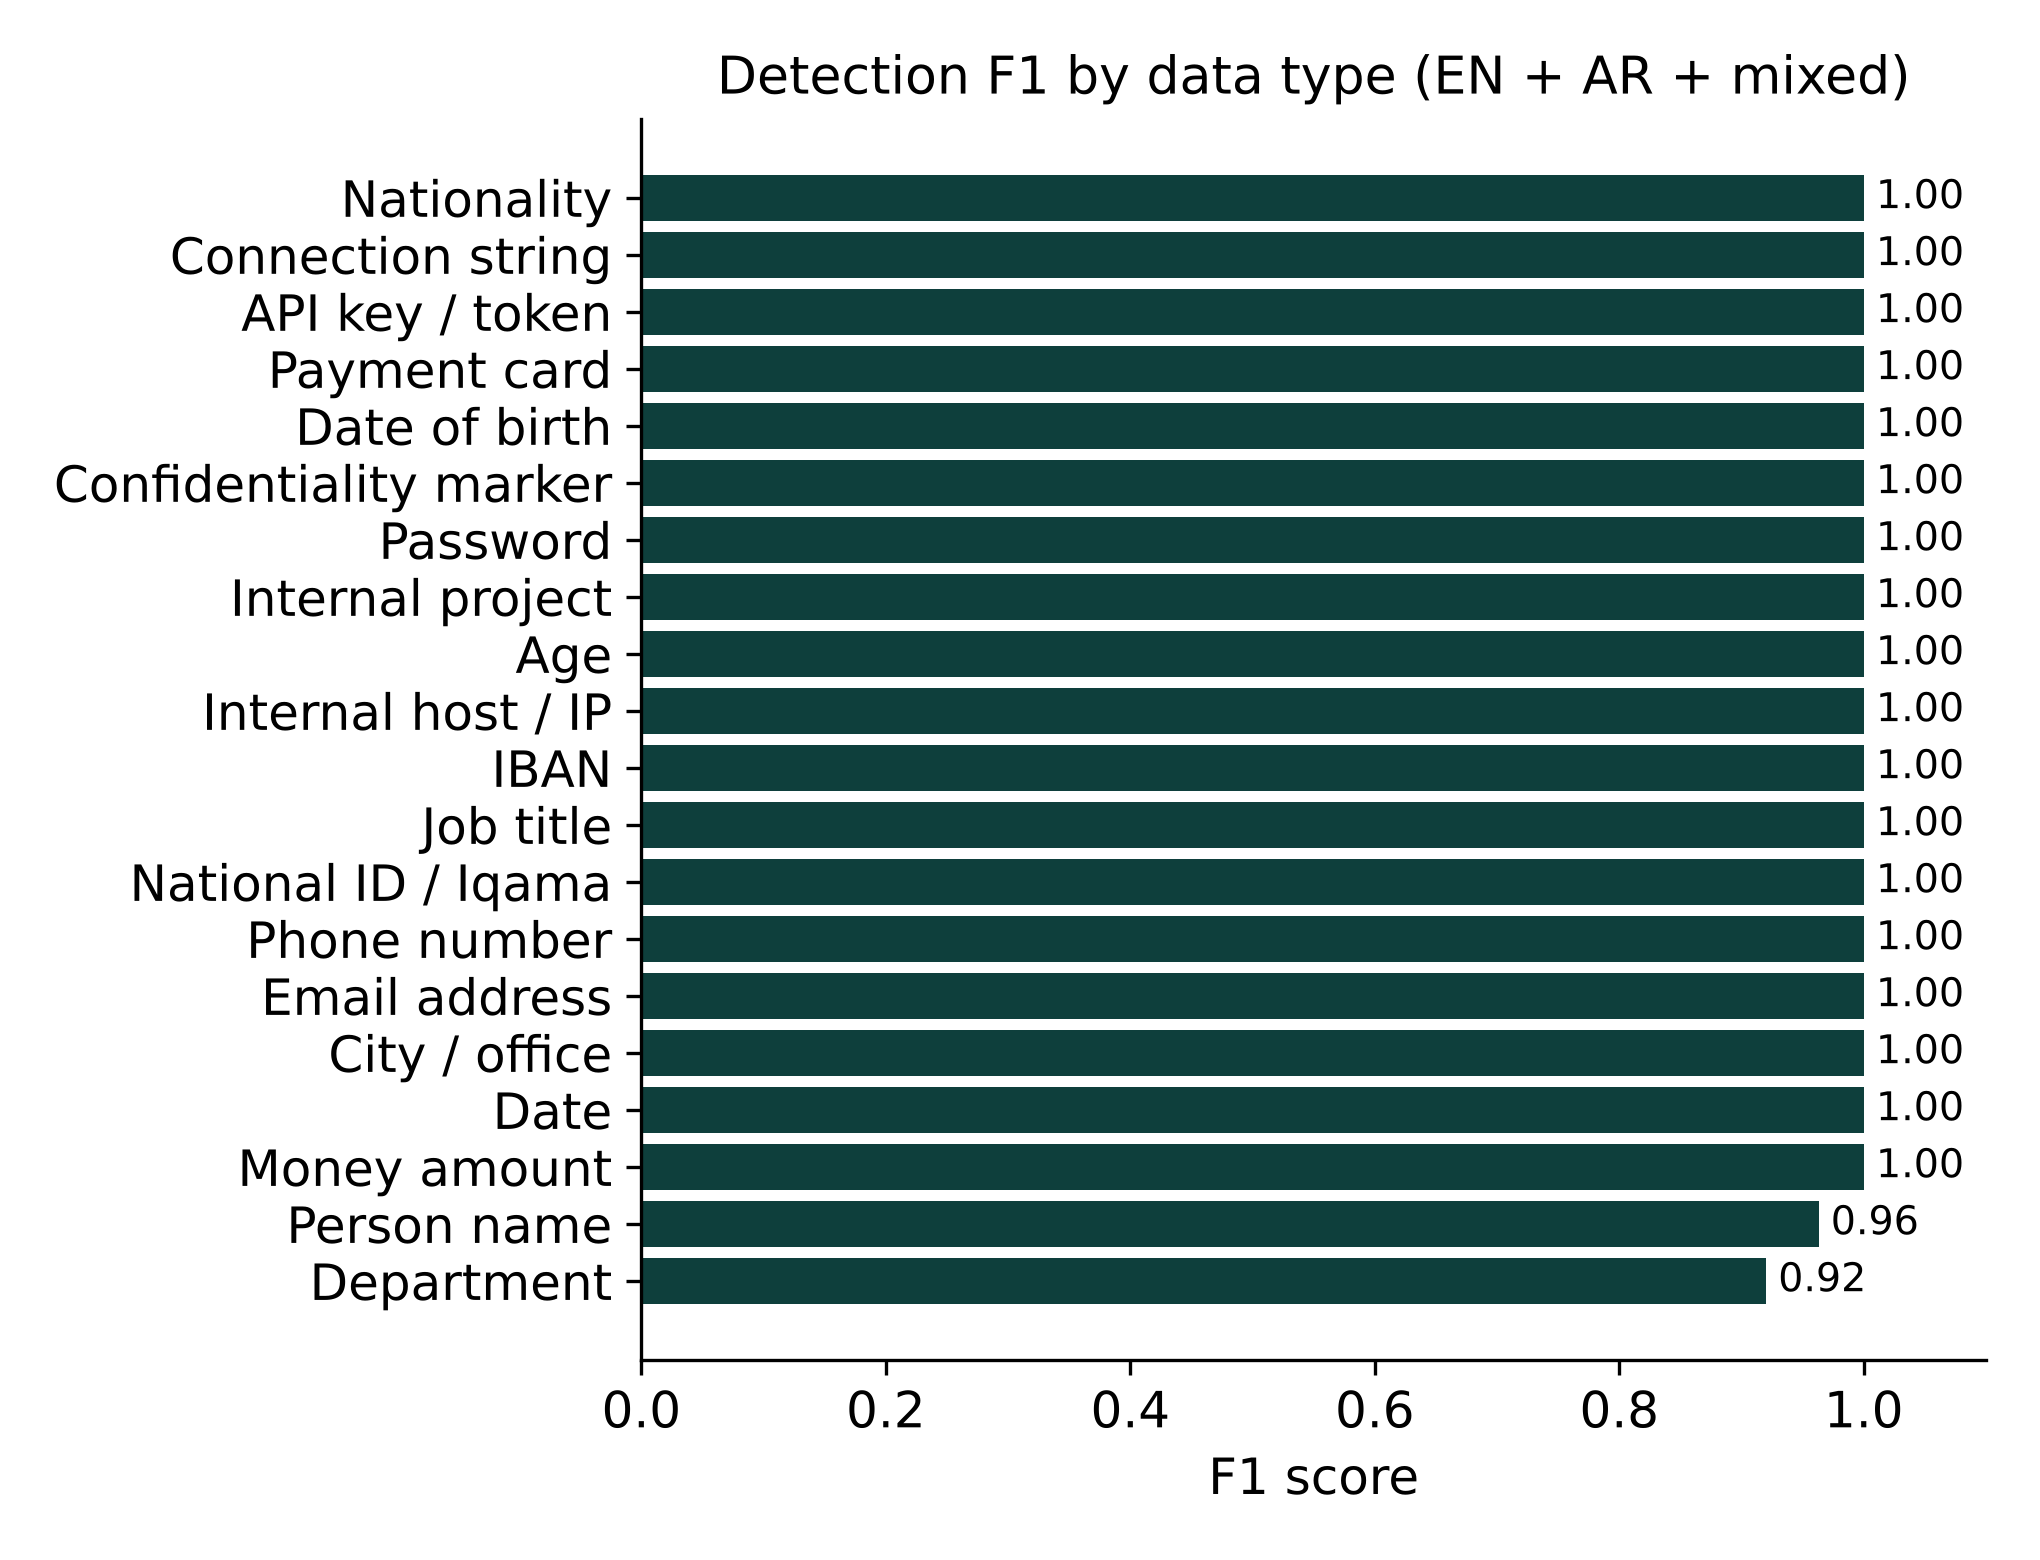
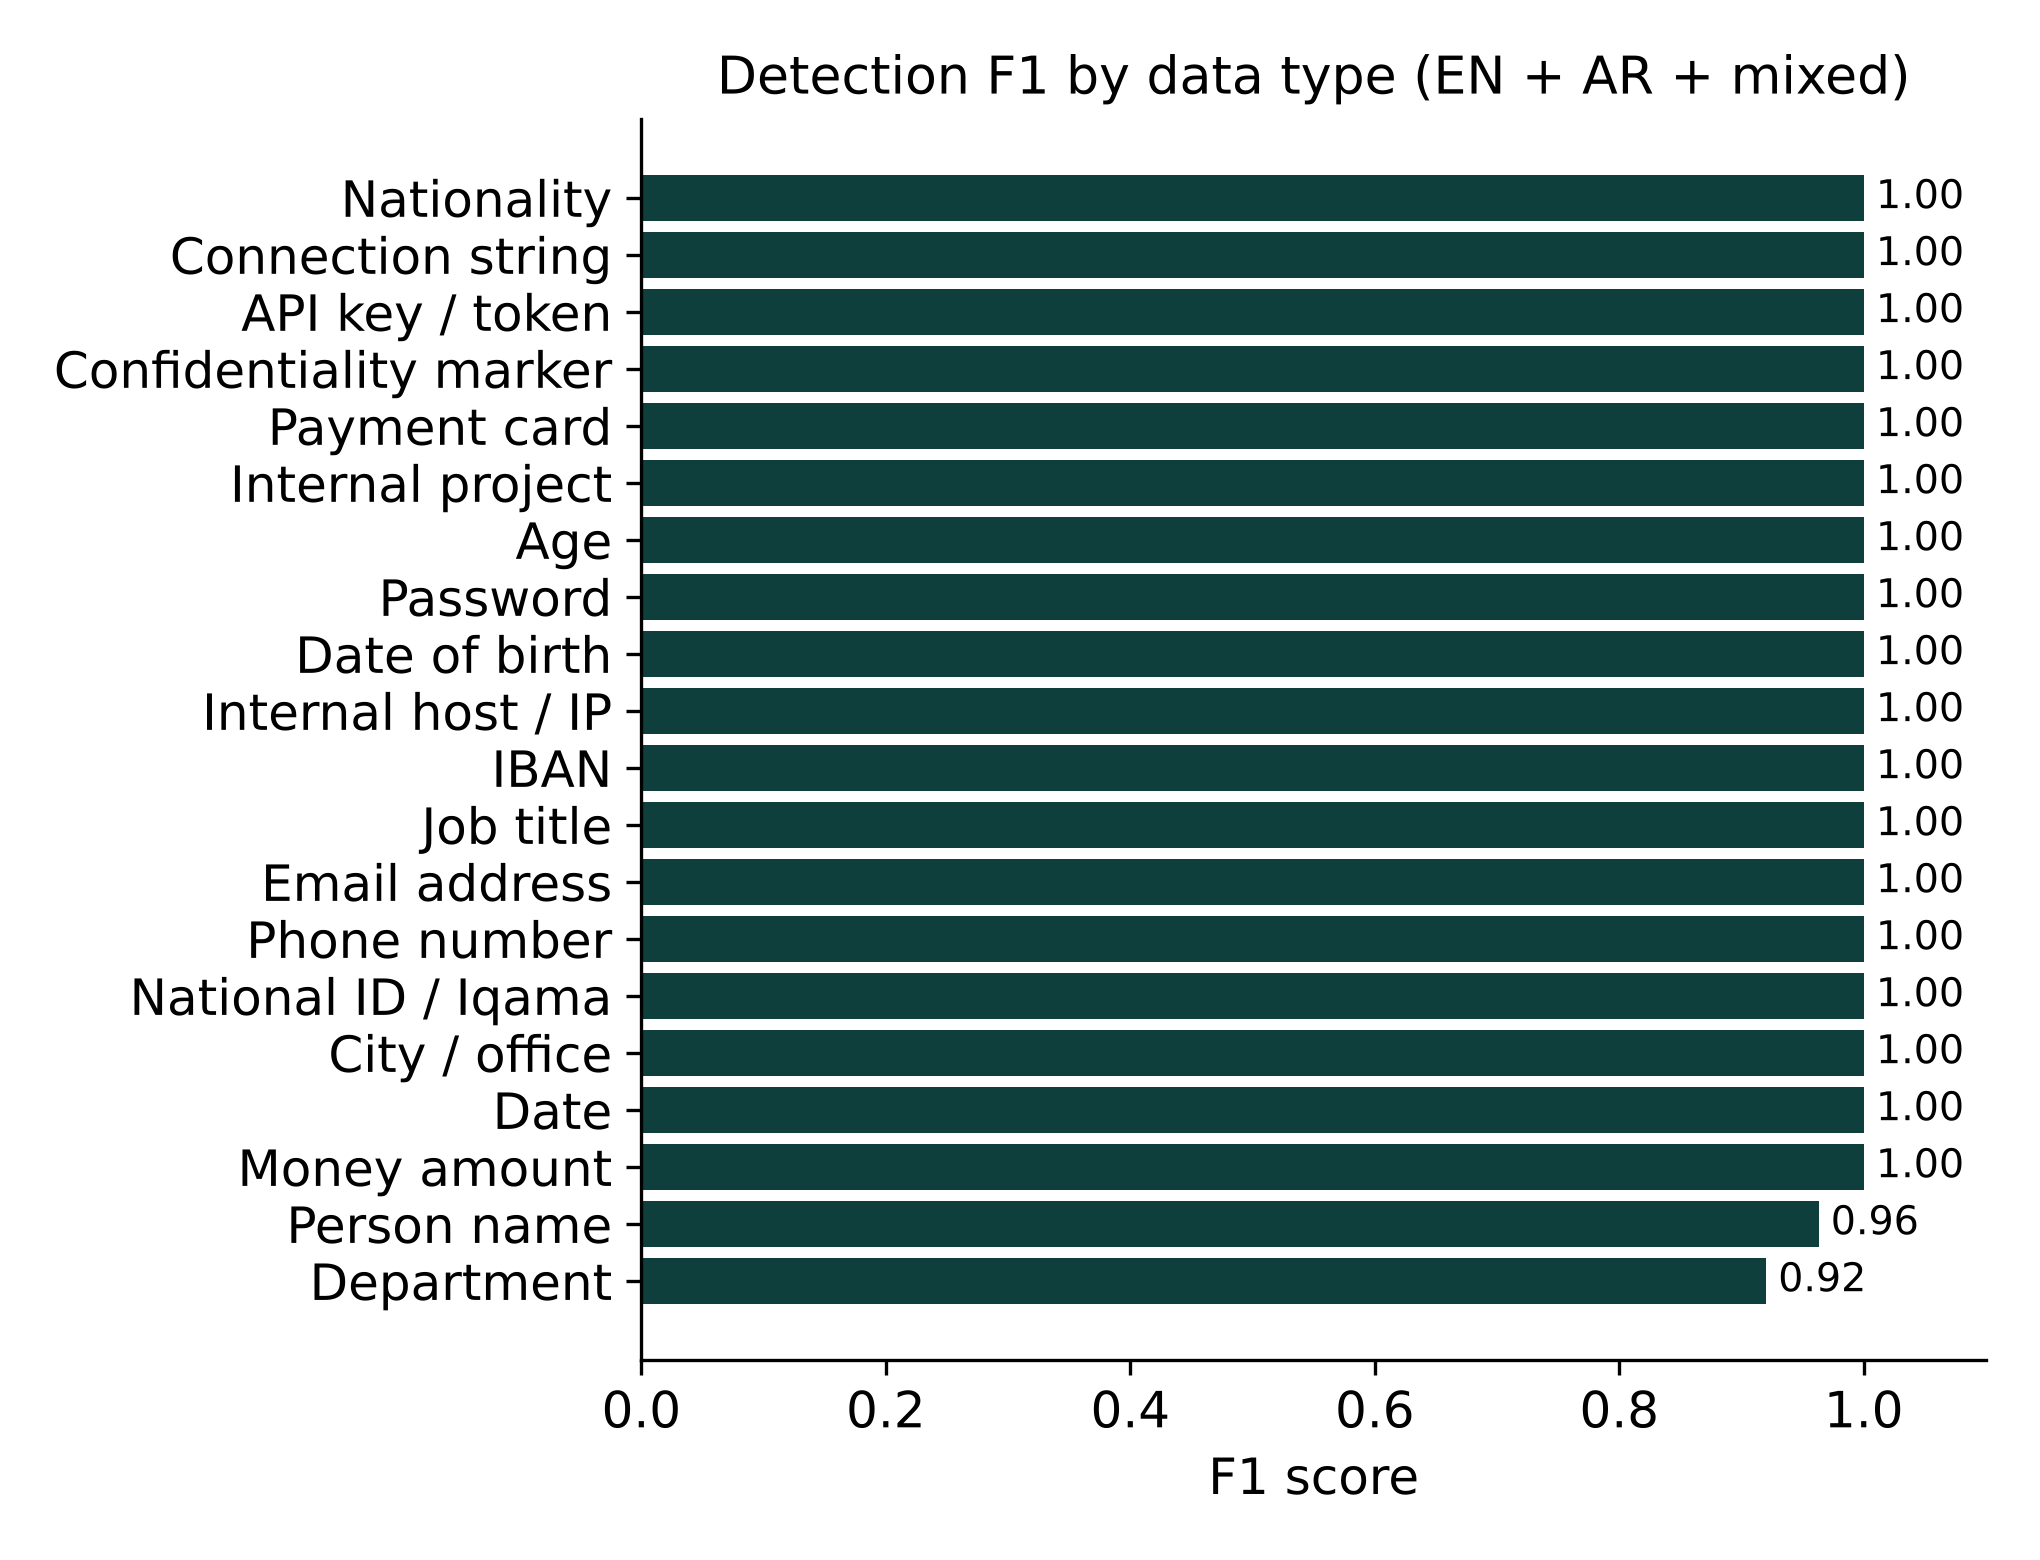
Arabic placeholders follow context, poster content, UI screenshots, final evaluation run
Claude-Session: https://claude.ai/code/session_01VdR9zsTk5NBg6EWrm8TVHs

Changed region(s): [[0.0309, 0.2154, 0.3088, 0.4308], [0.0618, 0.6154, 0.3088, 0.6769], [0.0618, 0.5538, 0.3088, 0.5846]]

diff --git a/aegis/generalization/ladders.py b/aegis/generalization/ladders.py
@@ -198,9 +198,12 @@ def coarse_value(entity_type: str, value: Optional[str], level: str) -> Optional
     return None  # pseudonym/role/masked/etc. reveal no population attribute
 
 
-def render(f: Finding, level: str, pseudo: PseudonymRegistry, key_hash: str) -> str:
-    """Replacement text for finding ``f`` at disclosure ``level``."""
-    ar = has_arabic(f.text)
+def render(f: Finding, level: str, pseudo: PseudonymRegistry, key_hash: str, context: Optional[str] = None) -> str:
+    """Replacement text for finding ``f`` at disclosure ``level``.
+
+    Language follows the value itself, or (for digits/codes) the surrounding text.
+    """
+    ar = has_arabic(f.text) or (context is not None and has_arabic(context))
     t = f.type
     v = f.value_norm
     if level == "exact":
@@ -255,6 +258,8 @@ def render(f: Finding, level: str, pseudo: PseudonymRegistry, key_hash: str) -> 
             return _attach_ar(_ar_prefix(f.text), arl) if ar else f"a {en}"
         if t == "job_title" and level == "level" and v in L.JOB_TITLES:
             en, arl = _LEVEL[L.JOB_TITLES[v][0]]
+            if ar and normalize(f.text).text.strip().endswith(("ة", "ه")):  # keep Arabic gender agreement
+                arl = {"موظف": "موظفة", "موظف بمستوى إداري": "موظفة بمستوى إداري", "قيادي": "قيادية"}.get(arl, arl)
             return arl if ar else en
         if t == "nationality" and level == "group" and v in L.NATIONALITIES:
             en, arl = _NAT_GROUP[L.NATIONALITIES[v][0]]

diff --git a/aegis/generalization/engine.py b/aegis/generalization/engine.py
@@ -63,7 +63,8 @@ def apply(text: str, segment: str, findings: list[Finding], levels: dict[str, st
         level = levels.get(f.id, "exact")
         if level == "exact":
             continue
-        rep = render(f, level, pseudo, value_key(secret, f))
+        window = text[max(0, f.start - 25):f.end + 25]
+        rep = render(f, level, pseudo, value_key(secret, f), context=window)
         before = out[: f.start]
         # keep English grammar intact at the junction: "the a corporate function" -> "the corporate function"
         if re.search(r"\b(?:the|a|an|our|their|his|her|its)\s+$", before, re.I):

diff --git a/docs/POSTER_CONTENT.md b/docs/POSTER_CONTENT.md
@@ -1,0 +1,97 @@
+# Poster content — Aegis (SAIF 2026, official template order)
+
+Every number below is produced by `python -m eval.run` (eval/reports/latest.json, generated on the test split).
+Figures: `eval/reports/figures/` (300 dpi). UI screenshots: `eval/reports/screenshots/` (2×).
+All personal data shown or used is synthetic.
+
+---
+
+## Title
+
+**AEGIS: Purpose-Bound Data Minimization and Cumulative Identifiability Control for Enterprise Generative-AI Use**
+
+Tagline: *Your AI. Your Data. Your Control.*
+
+---
+
+## 1 · Introduction
+
+- Employees paste customer records, HR cases, code and credentials into external AI tools ("shadow AI").
+- Existing AI-DLP tools ask **"Is this data sensitive?"** and check **one prompt at a time** — so they either block useful work or let it through.
+- Two gaps: (1) the same field can be necessary for one task and excessive for another; (2) details that are harmless one prompt at a time can **add up to one person** across a conversation.
+- **Objective:** a local gateway that sends only what each task needs, and stops a conversation before it identifies someone — with deterministic, auditable decisions aligned with Saudi PDPL purpose limitation and data minimization (Art. 11).
+
+## 2 · Methodology
+
+Use the architecture diagram (docs/ARCHITECTURE.md) — six stages, rules decide, LLM optional:
+
+1. **Injection screen** — direct and indirect (attached content), English/Arabic, de-obfuscation (base64, spaced letters, leetspeak).
+2. **Detection** — checksum validators (Saudi ID/Iqama, IBAN mod-97, Luhn), bilingual lexicons with Arabic clitics, structural name rules, CSV header typing.
+3. **Purpose contract** — per task, the least revealing form of each data type (e.g. age → 5-year band, city → region, name → pseudonym, ID → removed). YAML, owned by the DPO.
+4. **Policy engine** — YAML rules → ALLOW / WARN / GENERALIZE / BLOCK with rationale and counterfactual ("smallest change that would allow this").
+5. **Identifiability budget** — bits disclosed per person across the session:
+   `I = Σ −log₂ p(attribute)`, `people still matching ≈ N · 2^−I`. If fewer than *k* (= 5) would match, Aegis coarsens the new details one step at a time, or blocks.
+6. **Generalization** — rewrites the prompt (EN/AR); audit log stores metadata and keyed hashes only.
+
+**Evaluation protocol:** synthetic 5,000-employee directory; dev/test split (dev used for error analysis only; test uses fresh seeds and unseen names); two public external benchmarks; 95% Wilson confidence intervals; ablations against baselines.
+
+## 3 · Results (test split)
+
+| What we measured | Result |
+|---|---|
+| Identifying multi-prompt sessions protected — **with identifiability budget** | **96.9%** [92.4–98.8], n = 130 |
+| …same sessions, purpose minimization only (budget off) | 60.8% [52.2–68.7] |
+| …no protection | 0% |
+| Identifying sessions where **no single prompt** looks identifying | 99.2% [95.8–99.9] |
+| Non-identifying sessions where the budget intervened (cost) | 10.9% [6.3–18.1], n = 110 |
+| Unnecessary personal values leaked — Aegis | **0.0%** [0–1.2], n = 315 |
+| Task-needed facts kept — Aegis vs. redact-everything | **100%** [98.5–100] vs. 0%, n = 255 |
+| Sensitive-data detection, 20 types, EN/AR/mixed (synthetic) | P 97.9%, R 99.4%, F1 0.987 (n = 715) |
+| Names never seen by the system | 94.7% recall [87.2–97.9] |
+| Estimator vs. exact counts (frequency tables only) | Spearman ρ = 0.99; finds 97.0% of "fewer than 5" cases |
+| Policy decisions repeatable / as specified | 100% / 100% (36 runs) |
+| End-to-end latency, no model, on the M1 | p50 3.3 ms, p95 8.9 ms |
+| Prompt injection — held-out in-the-wild jailbreaks | 56.1% detected [52.9–59.3], n = 905; 17.9% of benign flagged* |
+| Prompt injection — team Arabic/English set | 90.0% detected, 3.3% false alarms (n = 30 + 30) |
+
+\* The public dataset labels "Ignore all previous instructions…" templates as benign; Aegis flags them by design. Excluding them: 11.9%.
+
+**Figures to place:** `fig_cumulative_example.png` (hero), `fig_budget_ablation.png`, `fig_privacy_utility.png`;
+screenshots `ui_necessity_demographic.png` + `ui_policy_simulator.png` (prototype evidence).
+
+Caption for the hero figure: *Four harmless prompts about a Logistics employee (age 35, Jeddah, joined 2024). As written they leave 1 matching person; Aegis sends "30–39", "Western Region" and drops the year — 23 people still match.*
+
+## 4 · Innovation
+
+- **Necessity, not sensitivity:** purpose contracts choose the *least revealing form* a task needs — 100% of needed facts kept where blanket redaction keeps 0%.
+- **Memory across prompts:** an identifiability budget measured in bits, enforced at the gateway — raises protection of identifying conversations from 61% to 97%.
+- **Auditable by design:** deterministic YAML policy, counterfactual explanations, content-free audit log; LLM optional and never decides.
+- **Local and bilingual:** runs offline on an 8 GB laptop; Arabic and Saudi identifiers built in.
+
+| | Typical AI-DLP | Research (AirGapAgent) | **Aegis** |
+|---|---|---|---|
+| Decides by | sensitivity | LLM judgment | **purpose contract (auditable)** |
+| Across prompts | no | no | **identifiability budget** |
+| Arabic / Saudi IDs | limited | no | **yes** |
+
+## 5 · Conclusion
+
+Aegis is a working, tested prototype (REST API, dashboard, MCP server; 29 automated tests). On held-out synthetic sessions it protected 97% of conversations that would otherwise identify an employee, while keeping every fact the task needed and leaking no unnecessary personal value. It can be deployed today as a local gateway in pilot settings.
+
+## 6 · Future Work & References
+
+**Future work**
+1. Pilot with real (consented) organizational text and an HR directory to replace synthetic data and calibrate the estimator — 3 months.
+2. Model-based prompt-injection and Arabic NER detectors behind the existing plug-in interface, to raise held-out injection recall above 56%.
+3. Inline proxy enforcement for AI agents (MCP is advisory today).
+
+**References (behind the QR code)**
+1. Bagdasarian et al., *AirGapAgent: Protecting Privacy-Conscious Conversational Agents*, ACM CCS 2024. arXiv:2405.05175
+2. *Privacy in Action: Towards Realistic Privacy Mitigation and Evaluation for LLM-Powered Agents* (PrivacyChecker), arXiv:2509.17488
+3. Shen et al., *"Do Anything Now": Characterizing and Evaluating In-The-Wild Jailbreak Prompts on LLMs*, ACM CCS 2024 (dataset: github.com/verazuo/jailbreak_llms)
+4. Yi et al., *Benchmarking and Defending Against Indirect Prompt Injection Attacks on LLMs* (BIPIA, github.com/microsoft/BIPIA)
+5. Sweeney, *k-Anonymity: A Model for Protecting Privacy*, IJUFKS 10(5), 2002
+6. Saudi Personal Data Protection Law (PDPL), SDAIA — purpose limitation and data minimization, Art. 11
+7. Source code and evaluation: github repository / Google Drive link
+
+**Limitations to state if asked:** synthetic, template-generated data; independence assumption (mitigated by a safety factor chosen on dev data); heuristic subject linking; prompt injection is not solved (4% on BIPIA task-style attacks).

diff --git a/eval/reports/EVALUATION_REPORT.md b/eval/reports/EVALUATION_REPORT.md
@@ -1,6 +1,6 @@
 # Aegis evaluation report
 
-Generated 2026-11-07 20:47 UTC · Aegis 2.0.0 · Linux x86_64, Python 3.13.18
+Generated 2026-11-07 20:51 UTC · Aegis 2.0.0 · Linux x86_64, Python 3.13.18
 
 Every rate shows n and a 95% Wilson confidence interval. All personal data is synthetic.
 
@@ -19,7 +19,7 @@ Every rate shows n and a 95% Wilson confidence interval. All personal data is sy
 - Arabic name recall — in lexicon: **100.0%** [89.8–100.0] (n=34)
 - Arabic name recall — not in lexicon: **100.0%** [85.1–100.0] (n=22)
 - Benign texts with a false personal/credential alarm: **0.0%** [0.0–3.7] (n=100)
-- Detection latency p50: **1.059** ms (n=400)
+- Detection latency p50: **1.013** ms (n=400)
 
 **Per type**
 
@@ -29,19 +29,19 @@ Every rate shows n and a 95% Wilson confidence interval. All personal data is sy
 | Money amount | 84 | 1.000 | 1.000 | 1.000 |
 | Date | 62 | 1.000 | 1.000 | 1.000 |
 | City / office | 55 | 1.000 | 1.000 | 1.000 |
+| National ID / Iqama | 40 | 1.000 | 1.000 | 1.000 |
+| Phone number | 40 | 1.000 | 1.000 | 1.000 |
 | Email address | 40 | 1.000 | 1.000 | 1.000 |
 | Department | 40 | 0.851 | 1.000 | 0.920 |
-| Phone number | 40 | 1.000 | 1.000 | 1.000 |
-| National ID / Iqama | 40 | 1.000 | 1.000 | 1.000 |
 | Job title | 30 | 1.000 | 1.000 | 1.000 |
 | IBAN | 25 | 1.000 | 1.000 | 1.000 |
 | Internal host / IP | 22 | 1.000 | 1.000 | 1.000 |
+| Date of birth | 15 | 1.000 | 1.000 | 1.000 |
+| Password | 15 | 1.000 | 1.000 | 1.000 |
 | Age | 15 | 1.000 | 1.000 | 1.000 |
 | Internal project | 15 | 1.000 | 1.000 | 1.000 |
-| Password | 15 | 1.000 | 1.000 | 1.000 |
-| Confidentiality marker | 15 | 1.000 | 1.000 | 1.000 |
-| Date of birth | 15 | 1.000 | 1.000 | 1.000 |
 | Payment card | 15 | 1.000 | 1.000 | 1.000 |
+| Confidentiality marker | 15 | 1.000 | 1.000 | 1.000 |
 | API key / token | 14 | 1.000 | 1.000 | 1.000 |
 | Connection string | 7 | 1.000 | 1.000 | 1.000 |
 | Nationality | 7 | 1.000 | 1.000 | 1.000 |
@@ -197,20 +197,20 @@ _Mismatches: none_
 
 All gateway evaluations made during this run, measured on x86_64 / Linux / Python 3.13.18.
 
-- End-to-end p50: **3.581** ms (n=5017)
-- End-to-end p95: **9.348** ms (n=5017)
+- End-to-end p50: **3.265** ms (n=5017)
+- End-to-end p95: **8.901** ms (n=5017)
 
 **Per stage (ms)**
 
 | Stage | n | p50 | p95 | max |
 |---|---|---|---|---|
-| injection | 5017 | 0.08 | 0.16 | 3.84 |
-| detection | 5017 | 0.91 | 1.24 | 5.23 |
-| purpose | 5017 | 0.01 | 0.01 | 0.11 |
-| policy | 5017 | 0.02 | 0.03 | 0.74 |
-| exposure | 5017 | 2.53 | 8.24 | 20.24 |
-| generalization | 5017 | 0.03 | 0.07 | 0.39 |
-| total | 5017 | 3.58 | 9.35 | 21.42 |
+| injection | 5017 | 0.08 | 0.16 | 0.73 |
+| detection | 5017 | 0.89 | 1.41 | 3.44 |
+| purpose | 5017 | 0.01 | 0.01 | 0.27 |
+| policy | 5017 | 0.02 | 0.04 | 0.34 |
+| exposure | 5017 | 2.26 | 7.81 | 39.16 |
+| generalization | 5017 | 0.03 | 0.08 | 0.85 |
+| total | 5017 | 3.27 | 8.90 | 40.78 |
 
 ## Figures
 
